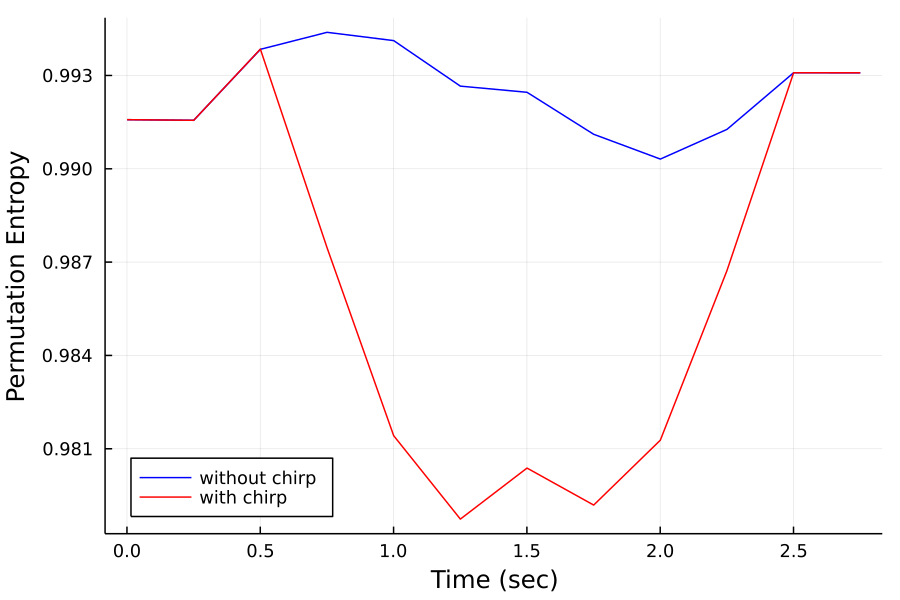
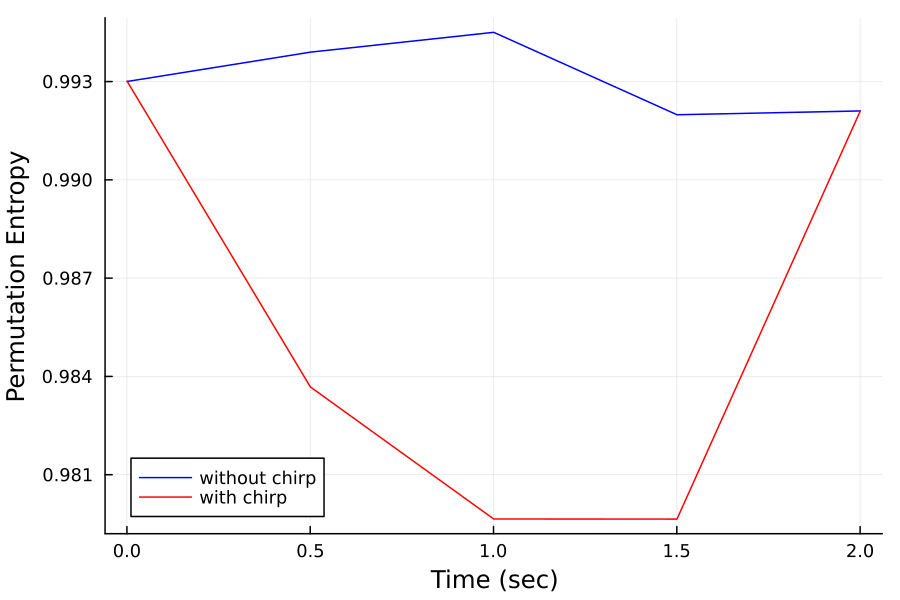
doc(README): update

diff --git a/README.md b/README.md
@@ -31,7 +31,7 @@ using Pkg; pkg"add https://github.com/ymtoo/AcousticFeatures.jl.git"
 using AcousticFeatures, DSP, SignalAnalysis, Plots
 
 function compare(sc1, sc2)
-    plot(sc1.axes[1] ./ fs, sc1.data,
+    plot(sc1.axes[1] ./ fs, vec(sc1.data),
          xlabel = "Time (sec)",
          ylabel = "Permutation Entropy",
          label  = "without chirp",
@@ -40,7 +40,7 @@ function compare(sc1, sc2)
          thickness_scaling = 1.0,
          legend=:bottomleft
     )
-    plot!(sc2.axes[1] ./ fs, sc2.data,
+    plot!(sc2.axes[1] ./ fs, vec(sc2.data),
           xlabel = "Time (sec)",
           ylabel = "Permutation Entropy",
           label  = "with chirp",
@@ -63,21 +63,19 @@ specgram(signal(x,fs); fs=fs,nfft=128)
 ![window](chirp1-spec.png)
 ```julia
 winlen = 2400
-noverlap = 1800
+noverlap = 1200
 pe = PermutationEntropy(5, 1, true, true)
 sc1 = Score(
     pe,
     v;
     winlen = winlen,
-    noverlap = noverlap,
-    padtype = :reflect
+    noverlap = noverlap
 )
 sc2 = Score(
     pe,
     x;
     winlen = winlen,
-    noverlap = noverlap,
-    padtype = :reflect
+    noverlap = noverlap
 )
 compare(sc1, sc2)
 ```
@@ -100,21 +98,19 @@ specgram(signal(x,fs); nfft=128, fs=fs)
 ![window](chirp3-spec.png)
 ```julia
 winlen = 2400
-noverlap = 1800
+noverlap = 1200
 pe = PermutationEntropy(5, 1, true, true)
 sc1 = Score(
     pe,
     v;
     winlen = winlen,
     noverlap = noverlap,
-    padtype = :reflect
 )
 sc2 = Score(
     pe,
     x;
     winlen = winlen,
     noverlap = noverlap,
-    padtype = :reflect
 )
 compare(sc1, sc2)
 ```
